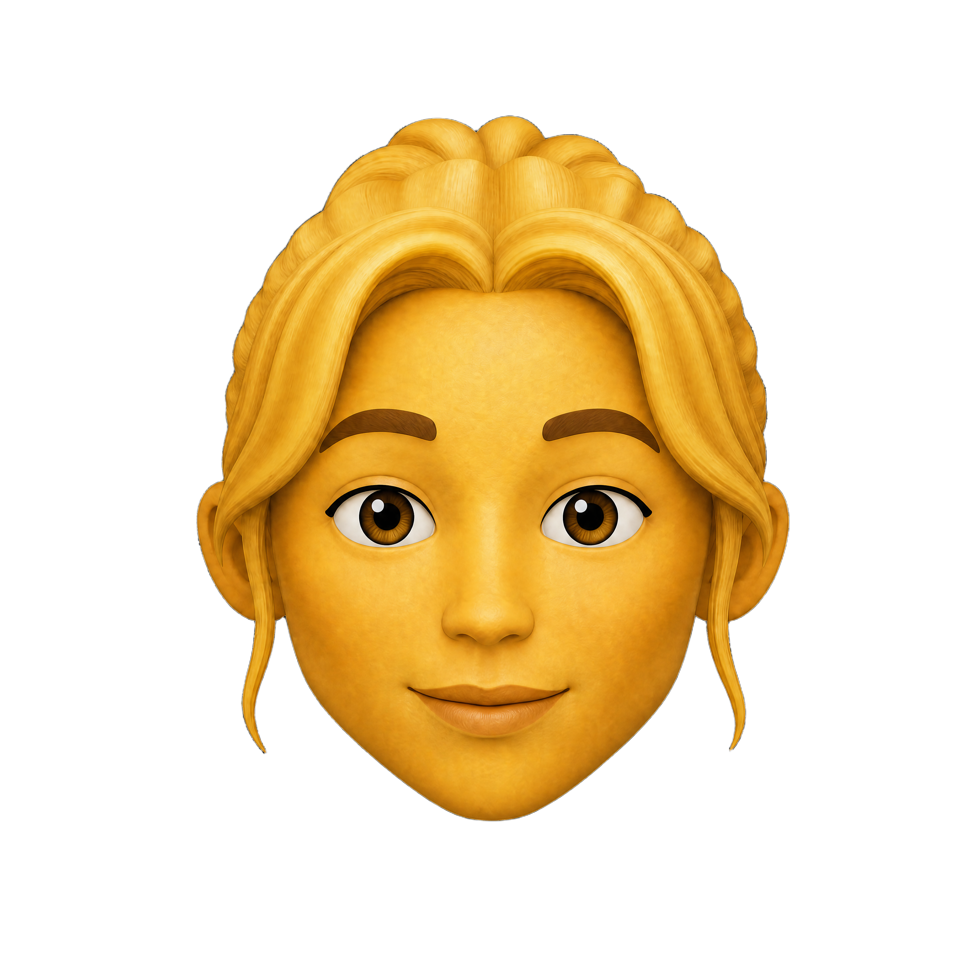
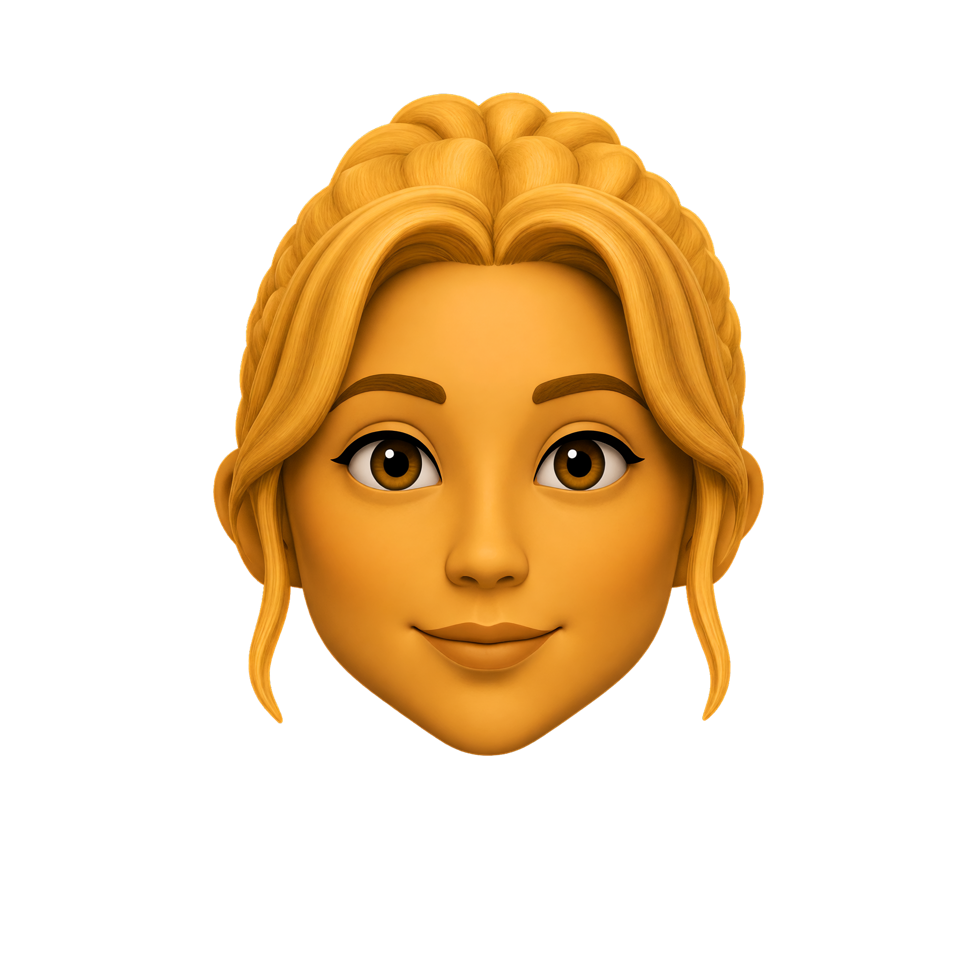
assets: coach idle-return heads re-pointed to the body-matched face
Both coach-{reed,iris}_head-effect-idle-return pins move to _v2, re-derived at
960px. The head renders now carry the same face as the full-body assets; the
head and body sets previously showed measurably different faces.

Skill updated alongside: with two references, the character to KEEP goes in
position one, or the model draws the other one regardless of how the prompt
indexes them.

Claude-Session: https://claude.ai/code/session_01GLJMTTyekbeZQPcaLP6NJm

Changed region(s): [[0.1875, 0.0938, 0.8438, 0.875]]

diff --git a/.agents/skills/delirio-assets/references/prompting.md b/.agents/skills/delirio-assets/references/prompting.md
@@ -175,6 +175,42 @@ Without the indexing the model will usually blend the two references instead of
 transferring a feature from one to the other, which is a plausible-looking result
 that is not what you asked for.
 
+### The character you want to KEEP goes first. Indexing is not enough.
+
+Order is not just how the indices are assigned — it decides which reference the
+model treats as the subject and which as the instruction. **Put the character
+whose identity must survive in `--ref` position one**, and let the second
+reference supply the pose.
+
+Measured on `grok-imagine-image-2.0`, re-deriving the head-effect set with a
+pose exemplar from `coach-base_head-effect-*` and the coach's own head:
+
+| `--ref` order | result |
+| --- | --- |
+| base first, coach second | identity **destroyed** on 12 of 12 renders |
+| coach first, base second | identity intact on 12 of 12, pose transferred |
+
+With the base head first, Reed's dark olive flat-crown cap came back as a
+baseball cap in four different colours across six renders, and Iris — blonde
+braided crown, loose temple strands — came back as a short-haired man. **The
+prompt indexed both references correctly in every one of those runs.** Naming
+"the character in image #2 (the one in the cap)" did not stop the model from
+treating image #1 as the thing it was drawing.
+
+Two consequences worth carrying:
+
+- **The pose reference still earns its place — second.** Dropping to a single
+  reference also preserves identity, but the model then invents the prop: asked
+  for a phone, it drew a screen full of app icons, where the set's convention
+  (and the base reference) is the phone's black back. First position protects
+  the character; second position pins the prop.
+- **`docs/coach-creation-prompts.txt` reads the other way, and it is not a
+  reliable guide here.** Its examples say "the character in image #2 (the one
+  with the dreads and mustache)" while listing the coach's file *first* — the
+  prompt text and the upload order contradict each other, so only one of them
+  can describe what was actually sent. Follow the table above, which was
+  measured, not the doc, which was reconstructed.
+
 ## One instruction per generation — then refine
 
 The catalog's own assets were built in steps, not in one shot:
